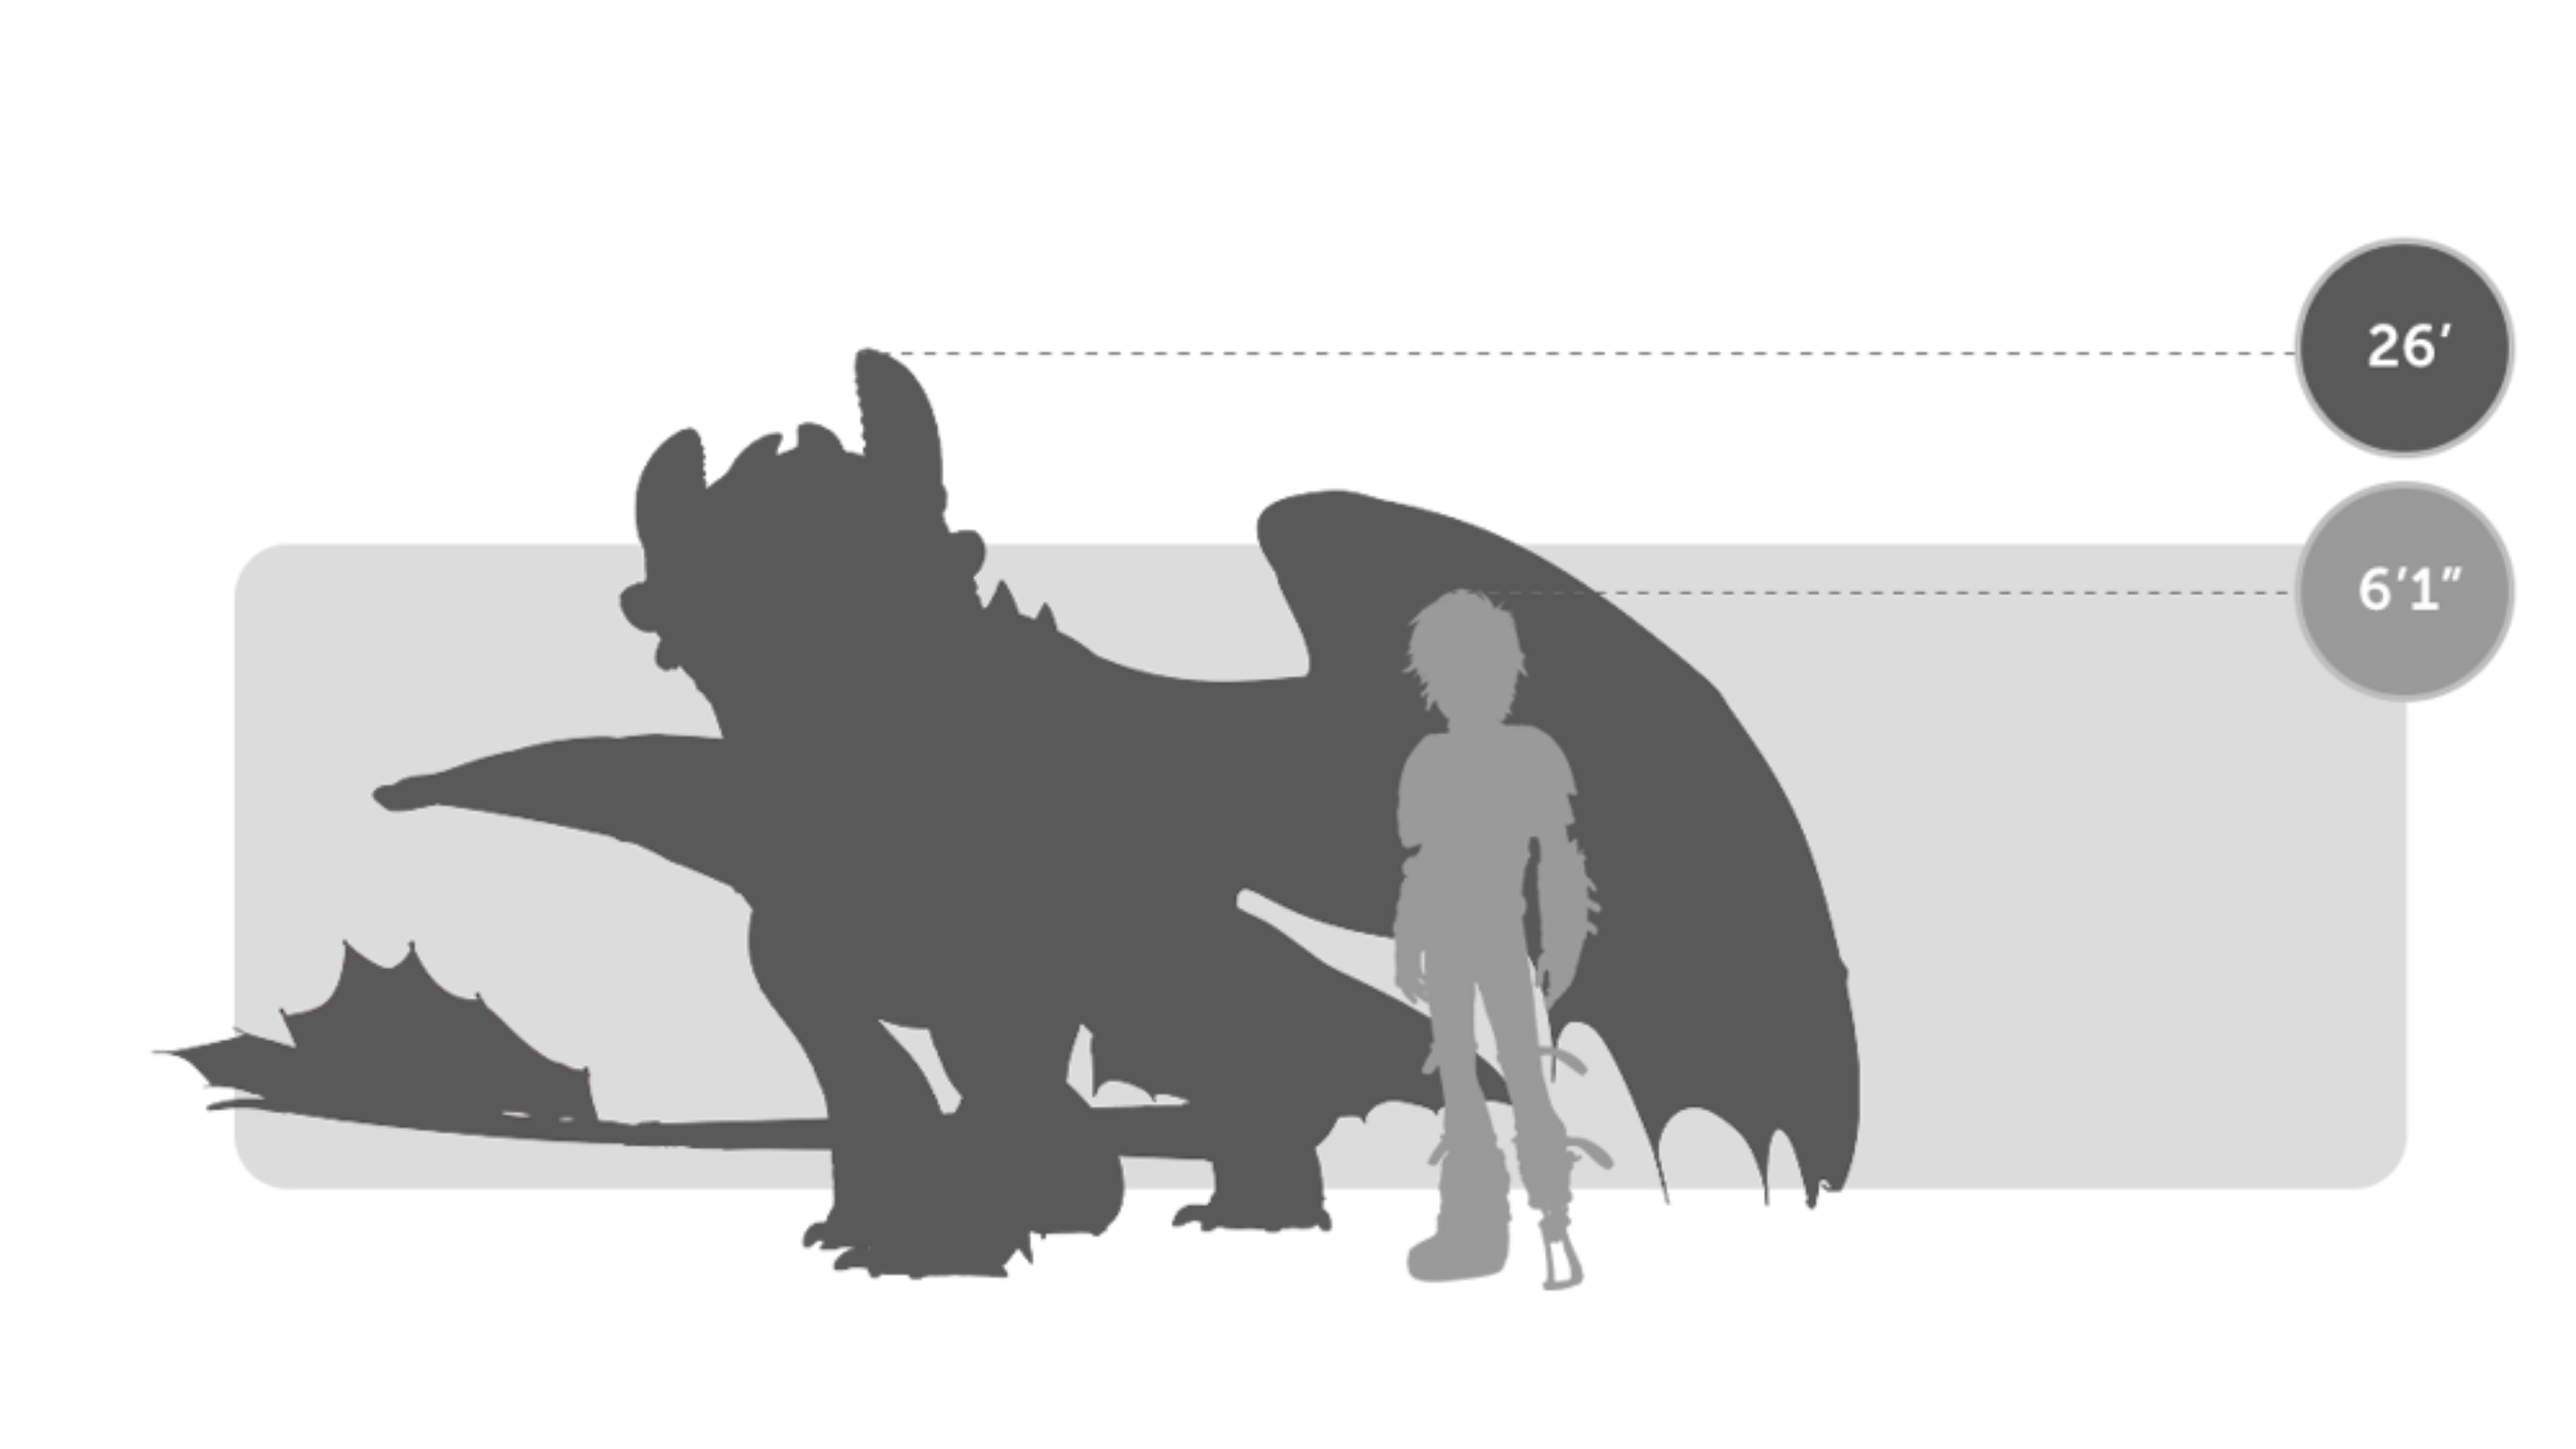
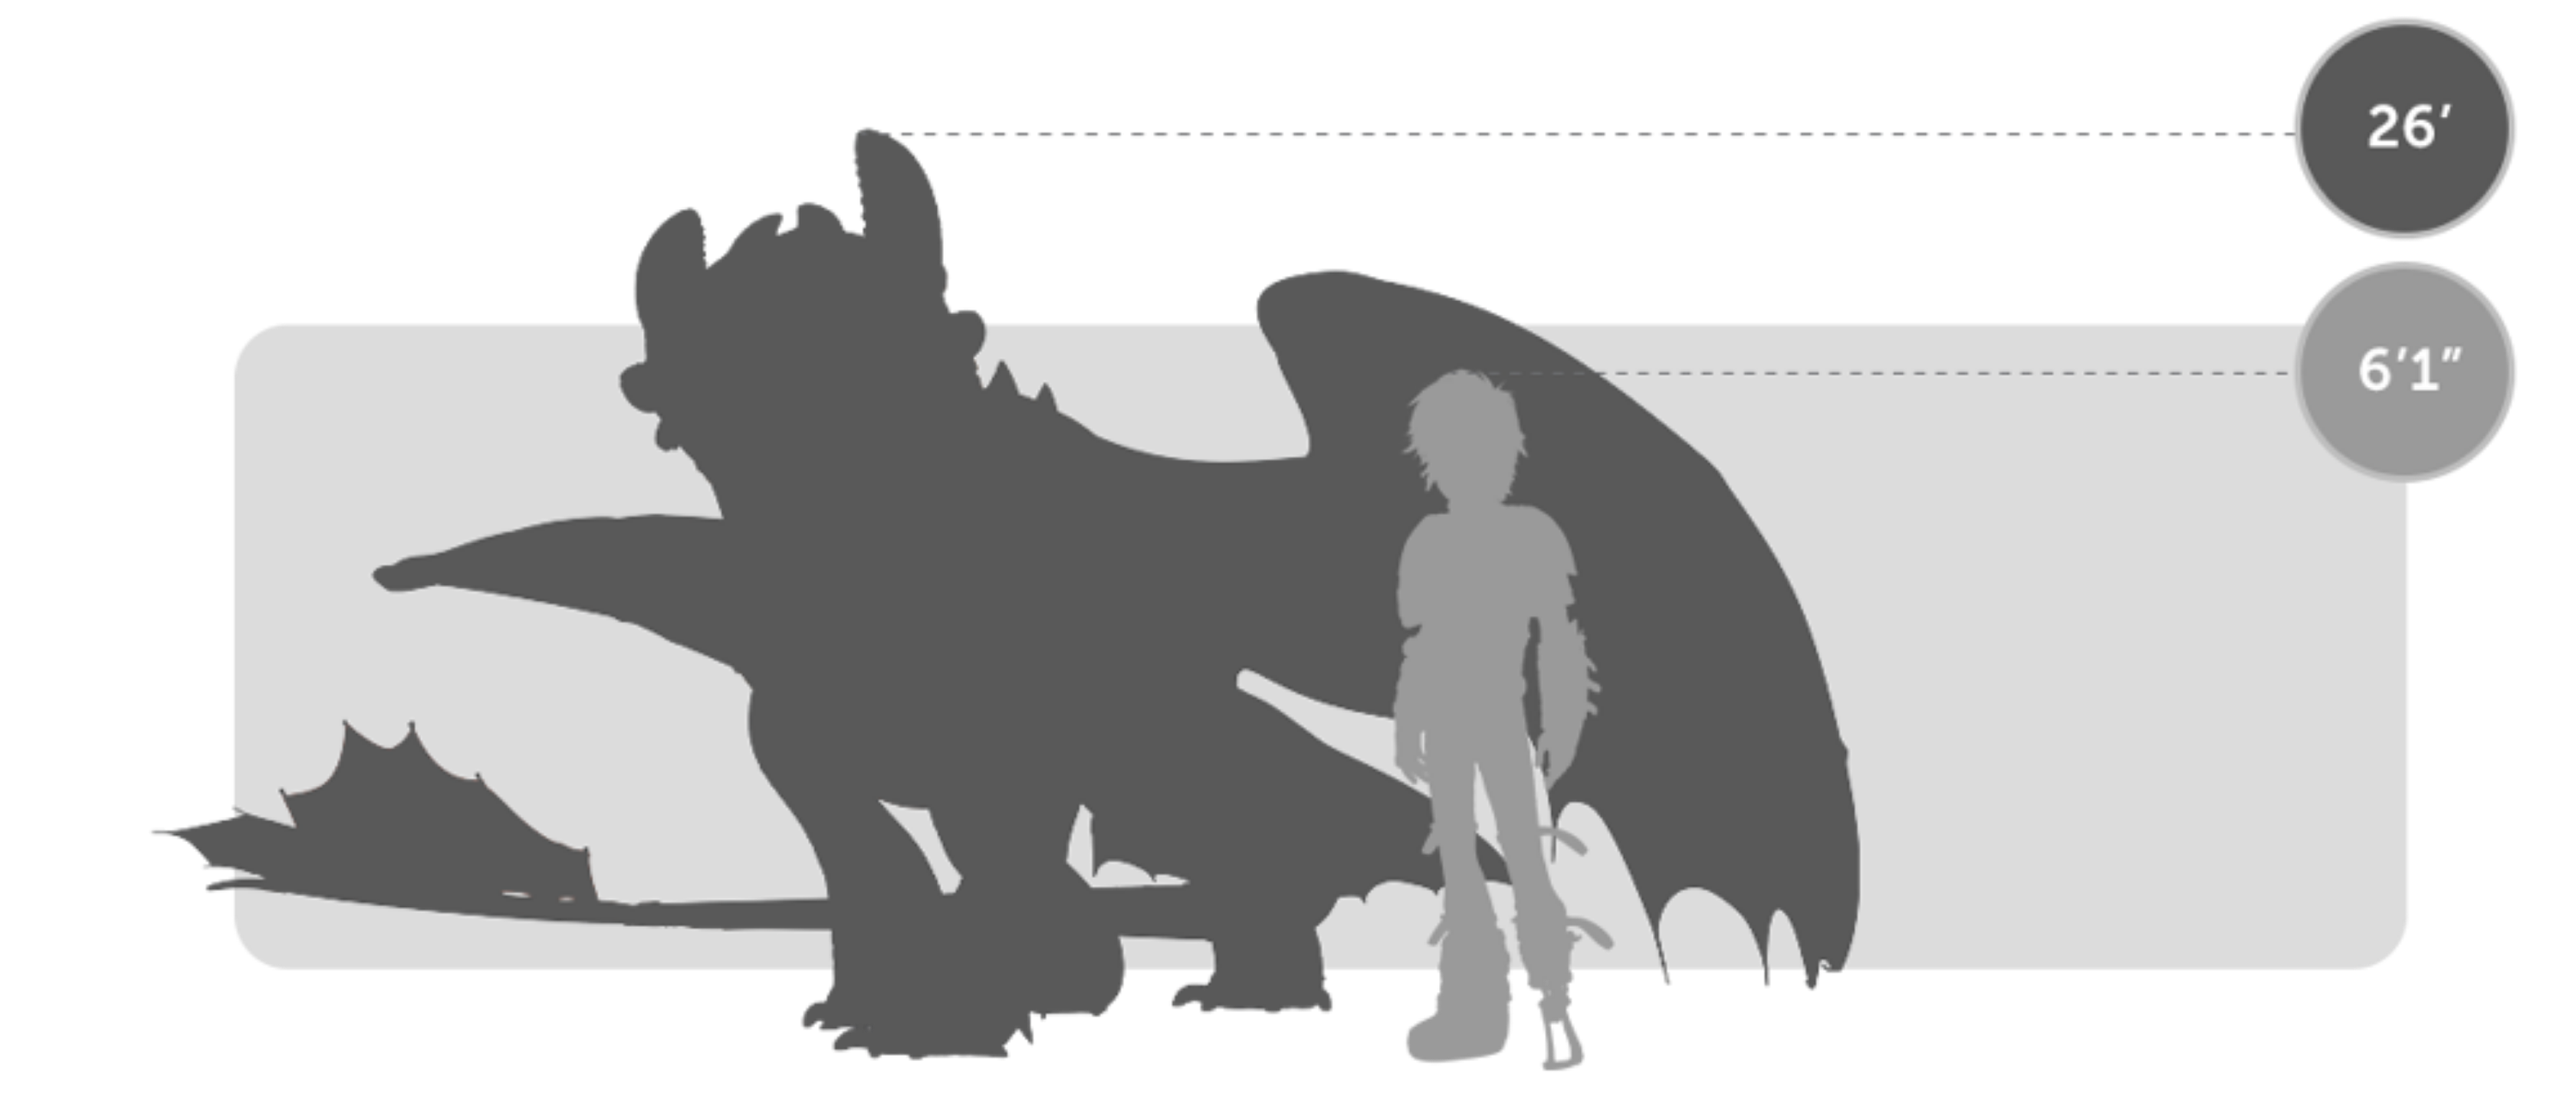
version 4

diff --git a/index/night_fury.html b/index/night_fury.html
@@ -28,46 +28,111 @@
 
     <main>
             
-        <section class="night_fury">  
-                    
-                
+        <section class="night_fury">    
                 <h1>Night Fury</h1>
-                <h3>General Overview</h3>
-                <p>The Night Fury is a medium-sized dragon belonging to the Strike Class. Once considered the most mysterious and fearsome of 
-                    all dragon species, it was known as the "unholy offspring of lightning and death itself." For generations, Vikings knew almost 
-                    nothing about them because they only attacked at night, leaving nothing but destruction behind.</p>
-                
-                    <h3>Physical Appearance</h3>
-                <ul>
-                    <li><b>Body & Color:</b> It has a sleek, aerodynamic body covered in jet-black scales, which provide perfect camouflage against the night sky.</li>
-                    <li><b>Head & Face:</b> It features a rounded, mammalian-like face with large, piercing yellowish-green eyes. A unique trait is its retractable teeth (which earned the famous dragon Toothless his name).</li>
-                    <li><b>Appendages:</b> On its head, it has several ear-like appendages and nubs that reflect its mood and aid in hearing. It lacks traditional horns, possessing instead smooth, aerodynamic fins.</li>
-                    <li><b>Wings & Tail:</b> It has a massive wingspan (about 45-50 feet) relative to its body size, allowing for supersonic flight. Its tail features two primary tail fins used for steering and stability.</li>
-                </ul>
-                
+
+            <section>
+            
+                    <section class="part_1_content">
+
+                            <section class="part_1_text">
+                                <h3>General Overview</h3>
+                                <p class="part_1">The Night Fury is a medium-sized dragon belonging to the Strike Class. Once considered the most mysterious and fearsome of all dragon species, 
+                                    it was known as the "unholy offspring of lightning and death itself." For generations, Vikings knew almost nothing about them because they only attacked 
+                                    at night, leaving nothing but destruction behind. </p>
+                            </section>
+
+                            <section>
+                                <img src="..\index\img\dragons\class strike\Night Fury\NF_size.png" alt="Night Fury size" class="dragon_size">
+                            </section>
+
+                    </section>
+			 
+                    <section class="part2">
                     
-                <h3>Abilities and Combat</h3>
-                <ul>
-                    <li><b>Plasma Blasts:</b> Unlike most dragons that breathe fire, the Night Fury shoots "plasma blasts" (ionized oxyacetylene). These purple-colored charges explode on impact and can be fired with pinpoint accuracy.</li>
-                    <li><b>Dive-Bombing:</b> Its signature move is the "dive-bomb." It gathers extreme speed by plummeting from great heights, creating a distinctive whistling sound before striking its target.</li>
-                    <li><b>Stealth:</b> It is the master of stealth. Besides its black scales, it can use "electrical cloaking" (harnessing lightning) to become temporarily invisible.</li>
-                    <li><b>Speed & Agility:</b> It is one of the fastest dragons in existence, capable of performing complex aerial maneuvers and reaching supersonic speeds.</li>
-                    <li><b>Echolocation:</b> Much like a bat, the Night Fury can use sound waves to navigate in total darkness or through dense environments like caves.</li>
-                </ul>
+                        <section class="part_1_content">
+                                <section>
+                                    <img src="..\index\img\dragons\class strike\Night Fury\table.png" alt="Night Fury size" class="dragon_table">
+                                </section>
 
+                                <section class="part_2_text">
+                                    <h3>Physical Appearance</h3>
+                                    <ul class="part_2">
+                                        <li><b>Body & Color:</b> It has a sleek, aerodynamic body covered in jet-black scales, which provide perfect camouflage against the night sky. </li>
+                                        <li><b>Head & Face:</b> It features a rounded, mammalian-like face with large, piercing yellowish-green eyes. A unique trait is its retractable teeth (which earned the famous dragon Toothless his name).</li>
+                                        <li><b>Appendages:</b> On its head, it has several ear-like appendages and nubs that reflect its mood and aid in hearing. It lacks traditional horns, possessing instead smooth, aerodynamic fins.</li>
+                                        <li><b>Wings & Tail:</b> It has a massive wingspan (about 45-50 feet) relative to its body size, allowing for supersonic flight. Its tail features two primary tail fins used for steering and stability.</li>
+                                    </ul>
+                                </section>
+                        </section>
+
+                    </section>
+                    
+                    <section class="part3">
+                    
+                        <section class="part_1_content">
+                                
+                                <section class="part_3_text">
+                                    <h3>Abilities and Combat</h3>
+                                    <ul class="part_3">
+                                        <li><b>Plasma Blasts:</b> Unlike most dragons that breathe fire, the Night Fury shoots "plasma blasts" (ionized oxyacetylene). These purple-colored charges explode on impact and can be fired with pinpoint accuracy.</li>
+                                        <li><b>Dive-Bombing:</b> Its signature move is the "dive-bomb." It gathers extreme speed by plummeting from great heights, creating a distinctive whistling sound before striking its target.</li>
+                                        <li><b>Stealth:</b> It is the master of stealth. Besides its black scales, it can use "electrical cloaking" (harnessing lightning) to become temporarily invisible.</li>
+                                        <li><b>Speed & Agility:</b> It is one of the fastest dragons in existence, capable of performing complex aerial maneuvers and reaching supersonic speeds.</li>
+                                        <li><b>Echolocation:</b> Much like a bat, the Night Fury can use sound waves to navigate in total darkness or through dense environments like caves.</li>
+                                    </ul>
+                                </section>
+                        </section>
+
+                    </section>
+
+                    <section class="part4">
+                    
+                        <section class="part_1_content">
+                                
+                                <section class="part_4_text">
+                                    <h3>Behavior and Personality</h3>
+                                    <ul class="part_4">
+                                        <li><b>Intelligence:</b> They are widely regarded as the most intelligent dragon species. They are capable of understanding complex commands and even mimicking human behaviors.</li>
+                                        <li><b>Temperament:</b> While they are fierce and territorial in the wild, they are incredibly loyal, empathetic, and protective once a bond of trust is formed.</li>
+                                        <li><b>Diet:</b> Their diet consists mainly of fish, though they also enjoy honeycombs and certain fruits like apples.</li>
+                                    </ul>
+                                </section>
+
+                                <section>
+                                    <img src="..\index\img\dragons\class strike\Night Fury\NF.png" alt="Night Fury size" class="dragon">
+                                </section>
+
+                        </section>
+
+                    </section>
+            
+            
+            </section>
+
+
+
+
+
+        </section>
                   
-                <h3>Behavior and Personality</h3>
-                <ul>
-                    <li><b>Intelligence:</b> They are widely regarded as the most intelligent dragon species. They are capable of understanding complex commands and even mimicking human behaviors.</li>
-                    <li><b>Temperament:</b> While they are fierce and territorial in the wild, they are incredibly loyal, empathetic, and protective once a bond of trust is formed.</li>
-                    <li><b>Diet:</b> Their diet consists mainly of fish, though they also enjoy honeycombs and certain fruits like apples.</li>
-                </ul>
 
-                <section class="images">
-                <img src="..\index\img\dragons\class strike\Night Fury\NF_size.png" alt="Night Fury size" class="dragon-size">
-                <img src="..\index\img\dragons\class strike\Night Fury\table.png" alt="Night Fury Image" class="dragon-table">
-                <img src="..\index\img\dragons\class strike\Night Fury\NF.png" alt="Night Fury Image" class="dragon-image">
-                </section>
+
+
+
+
+
+
+
+
+
+
+
+
+
+
+                    
+                
 
               
         </section>

diff --git a/index/night_fury.css b/index/night_fury.css
@@ -66,11 +66,40 @@ main {
     flex: 1 0 auto;
 }
 
-.images {
+h1 {
+    font-size: 35px;
+    color: #901913;
+    text-align: left;
+    margin-top: 0px;
+    margin-bottom: 20px;
+
+}
+
+h3 {
+    font-size: 20px;
+    color: #0c1a87;
+    text-align: left;
+    margin-top: 0px;
+}
+
+p {
+    font-size: 15px;
+    text-align: left;
+}
+
+ul {
+    font-size: 15px;
+    text-align: left;
+}
+
+.part_1_content {
     display: flex;
+    margin: 0;
+    padding: 0;
     flex-direction: row;
+    align-items: left;
+    text-align: left;
     gap: 20px;
-    align-items: center;
 }
 
 .night_fury {
@@ -85,49 +114,32 @@ main {
     text-decoration: none;
 }
 
-h1 {
-    font-size: 40px;
-    color: #881c17;
-    justify-content: space-evenly;
-    margin: 0;
-}
-
-h3 {
-    font-size: 30px;
-    color: #1349a1;
-    justify-content: space-evenly;
-    margin: 0;
-}
-
-p {
-    font-size: 18px;
-    color: #000000;
-    justify-content: space-evenly;
-    margin: 0;
-}
-
-ul {
-    font-size: 18px;
-    color: #000000;
-    justify-content: space-evenly;
-    margin: 0;
-}
-
-.dragon-image {
-    width: 500px;
-    height: auto;
-
-}
-
-.dragon-size {
-    width: 600px;
+.dragon_size {
+    max-width: 1000px;
+    width: 100%;
     height: auto;
 }
 
-.dragon-table {
-    width: 300px;
+.dragon_table {
+    max-width: 350px;
+    width: 100%;
     height: auto;
 }
+
+.dragon {
+    max-width: 1000px;
+    width: 100%;
+    height: auto;
+}
+
+
+
+
+
+
+
+
+
 
 
 
@@ -176,5 +188,16 @@ ul {
     #menu-toggle:checked + .icon + .menu {
         display: flex;
     }
+
+    .part_1_content {
+    display: flex;
+    margin: 0;
+    padding: 0;
+    flex-direction: column;
+    align-items: left;
+    text-align: left;
+    gap: 20px;
+    }
+
 
 }
